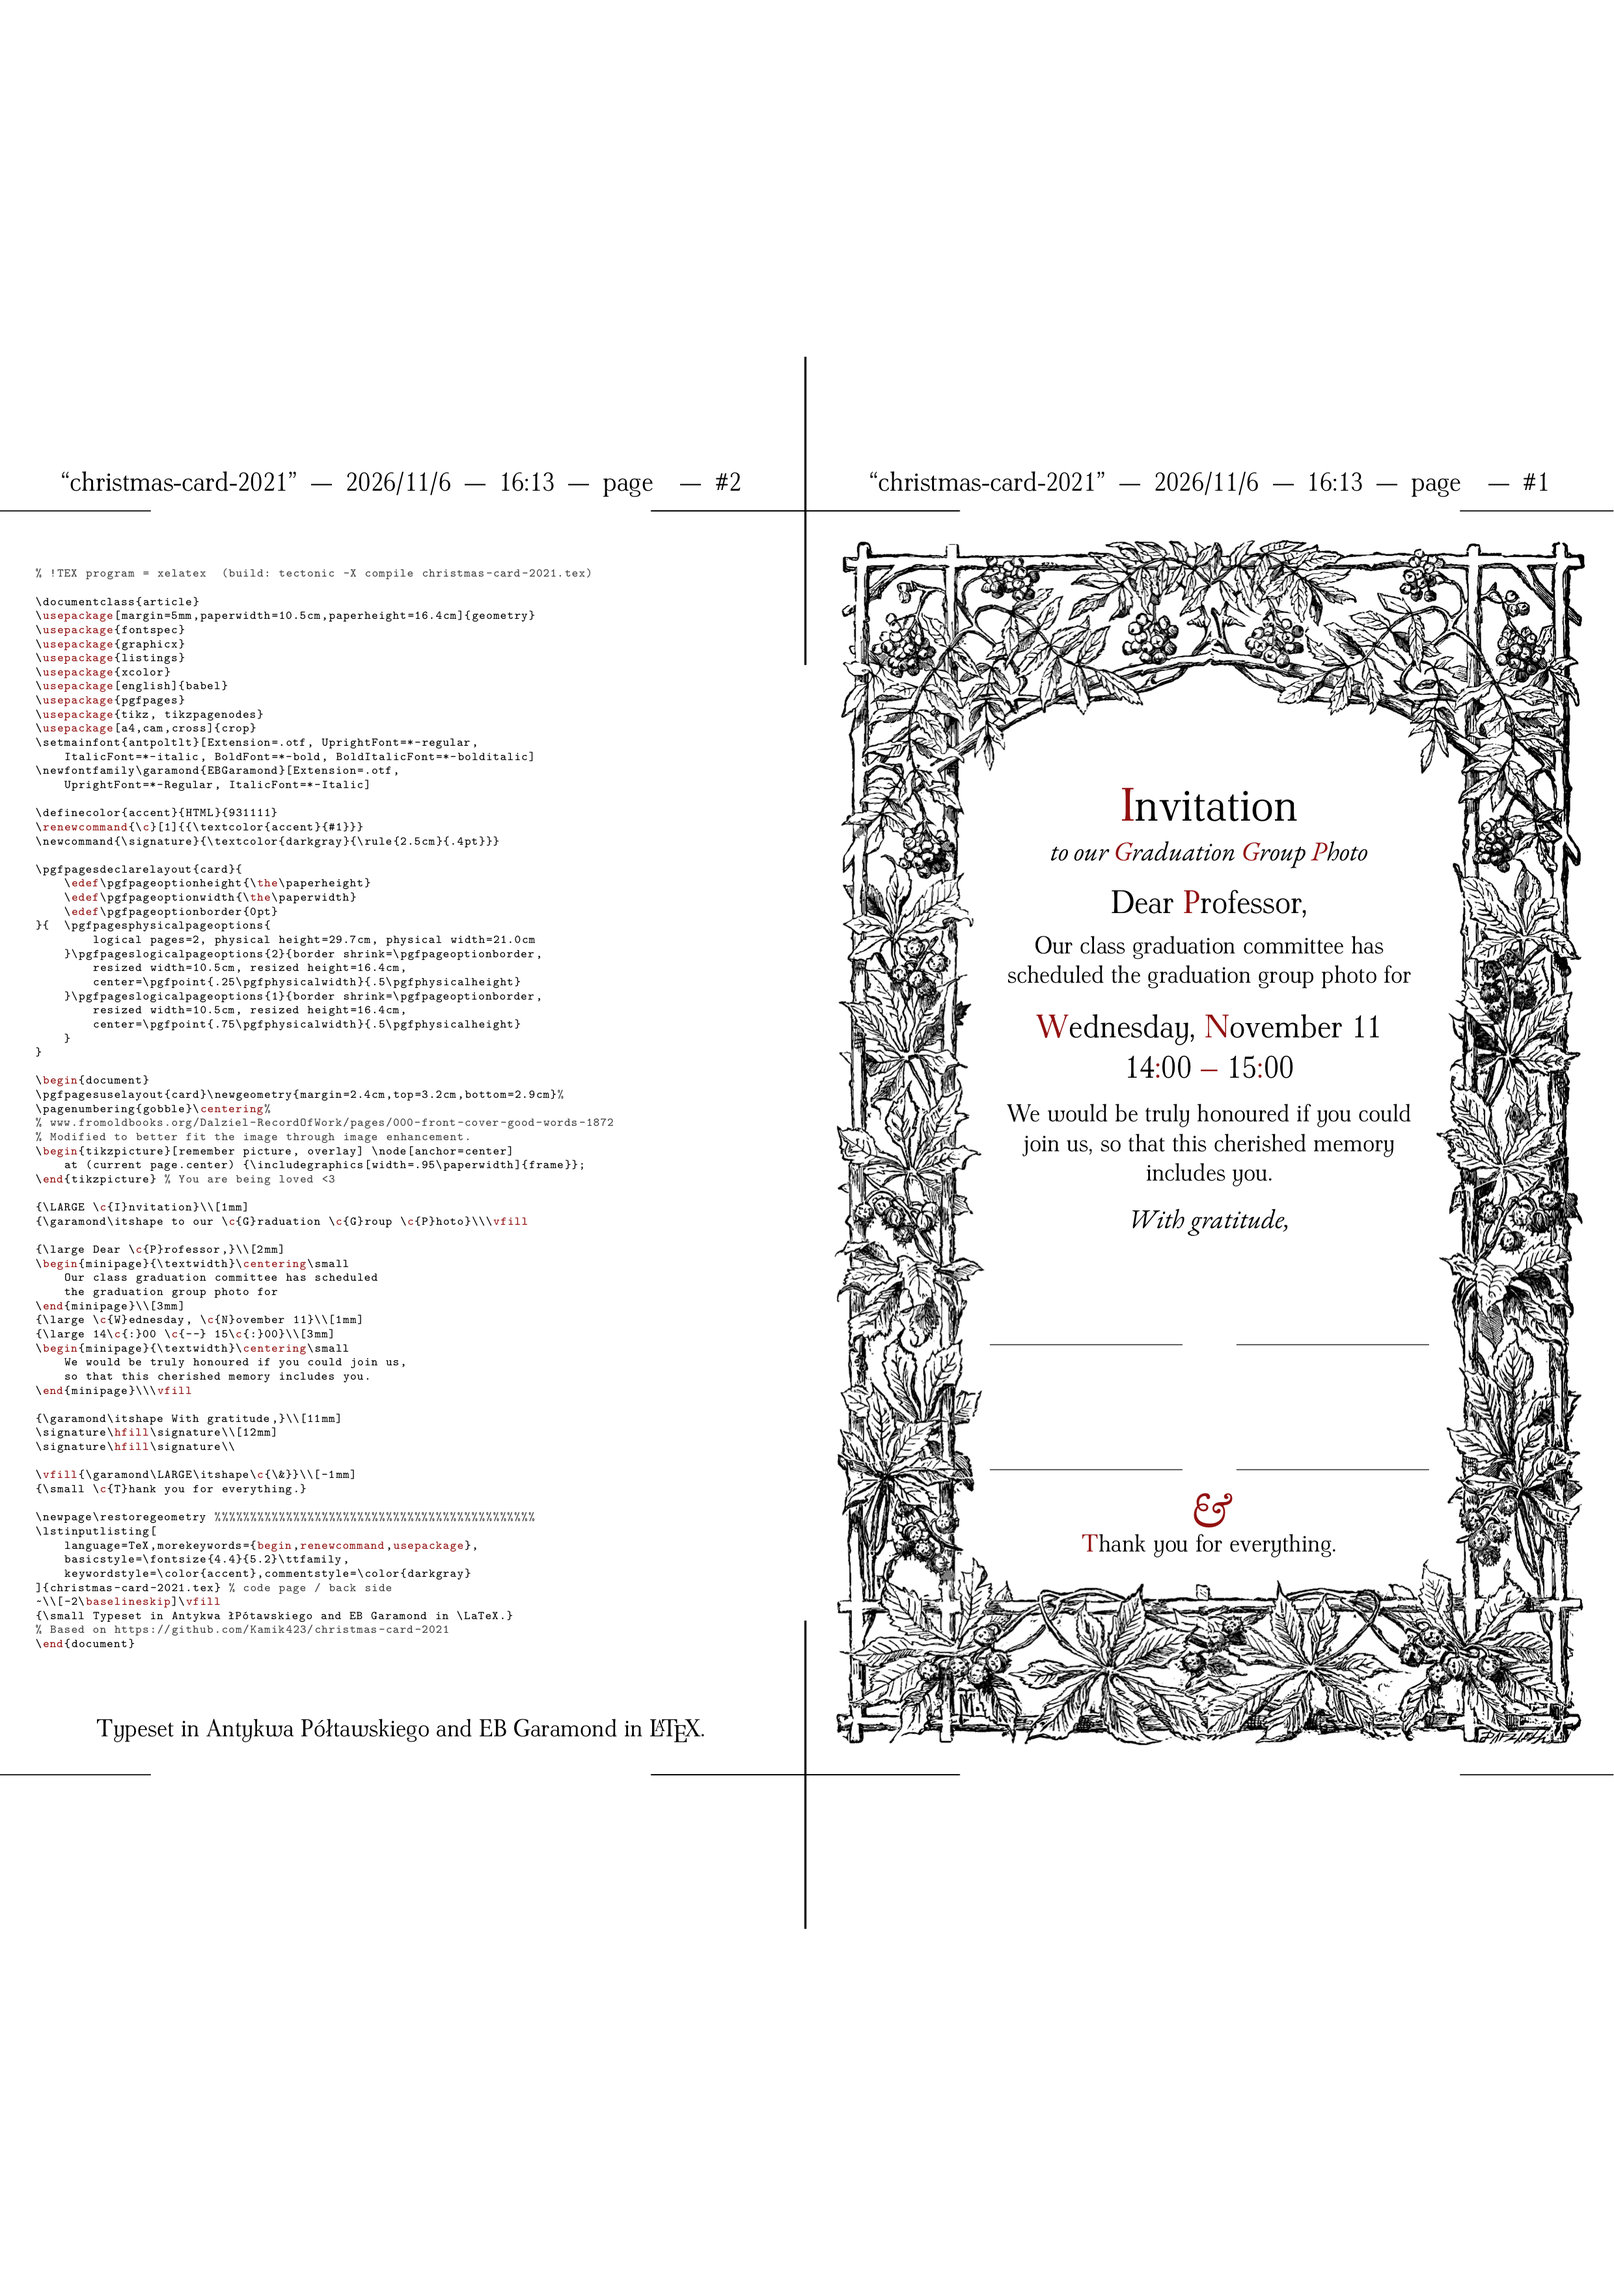
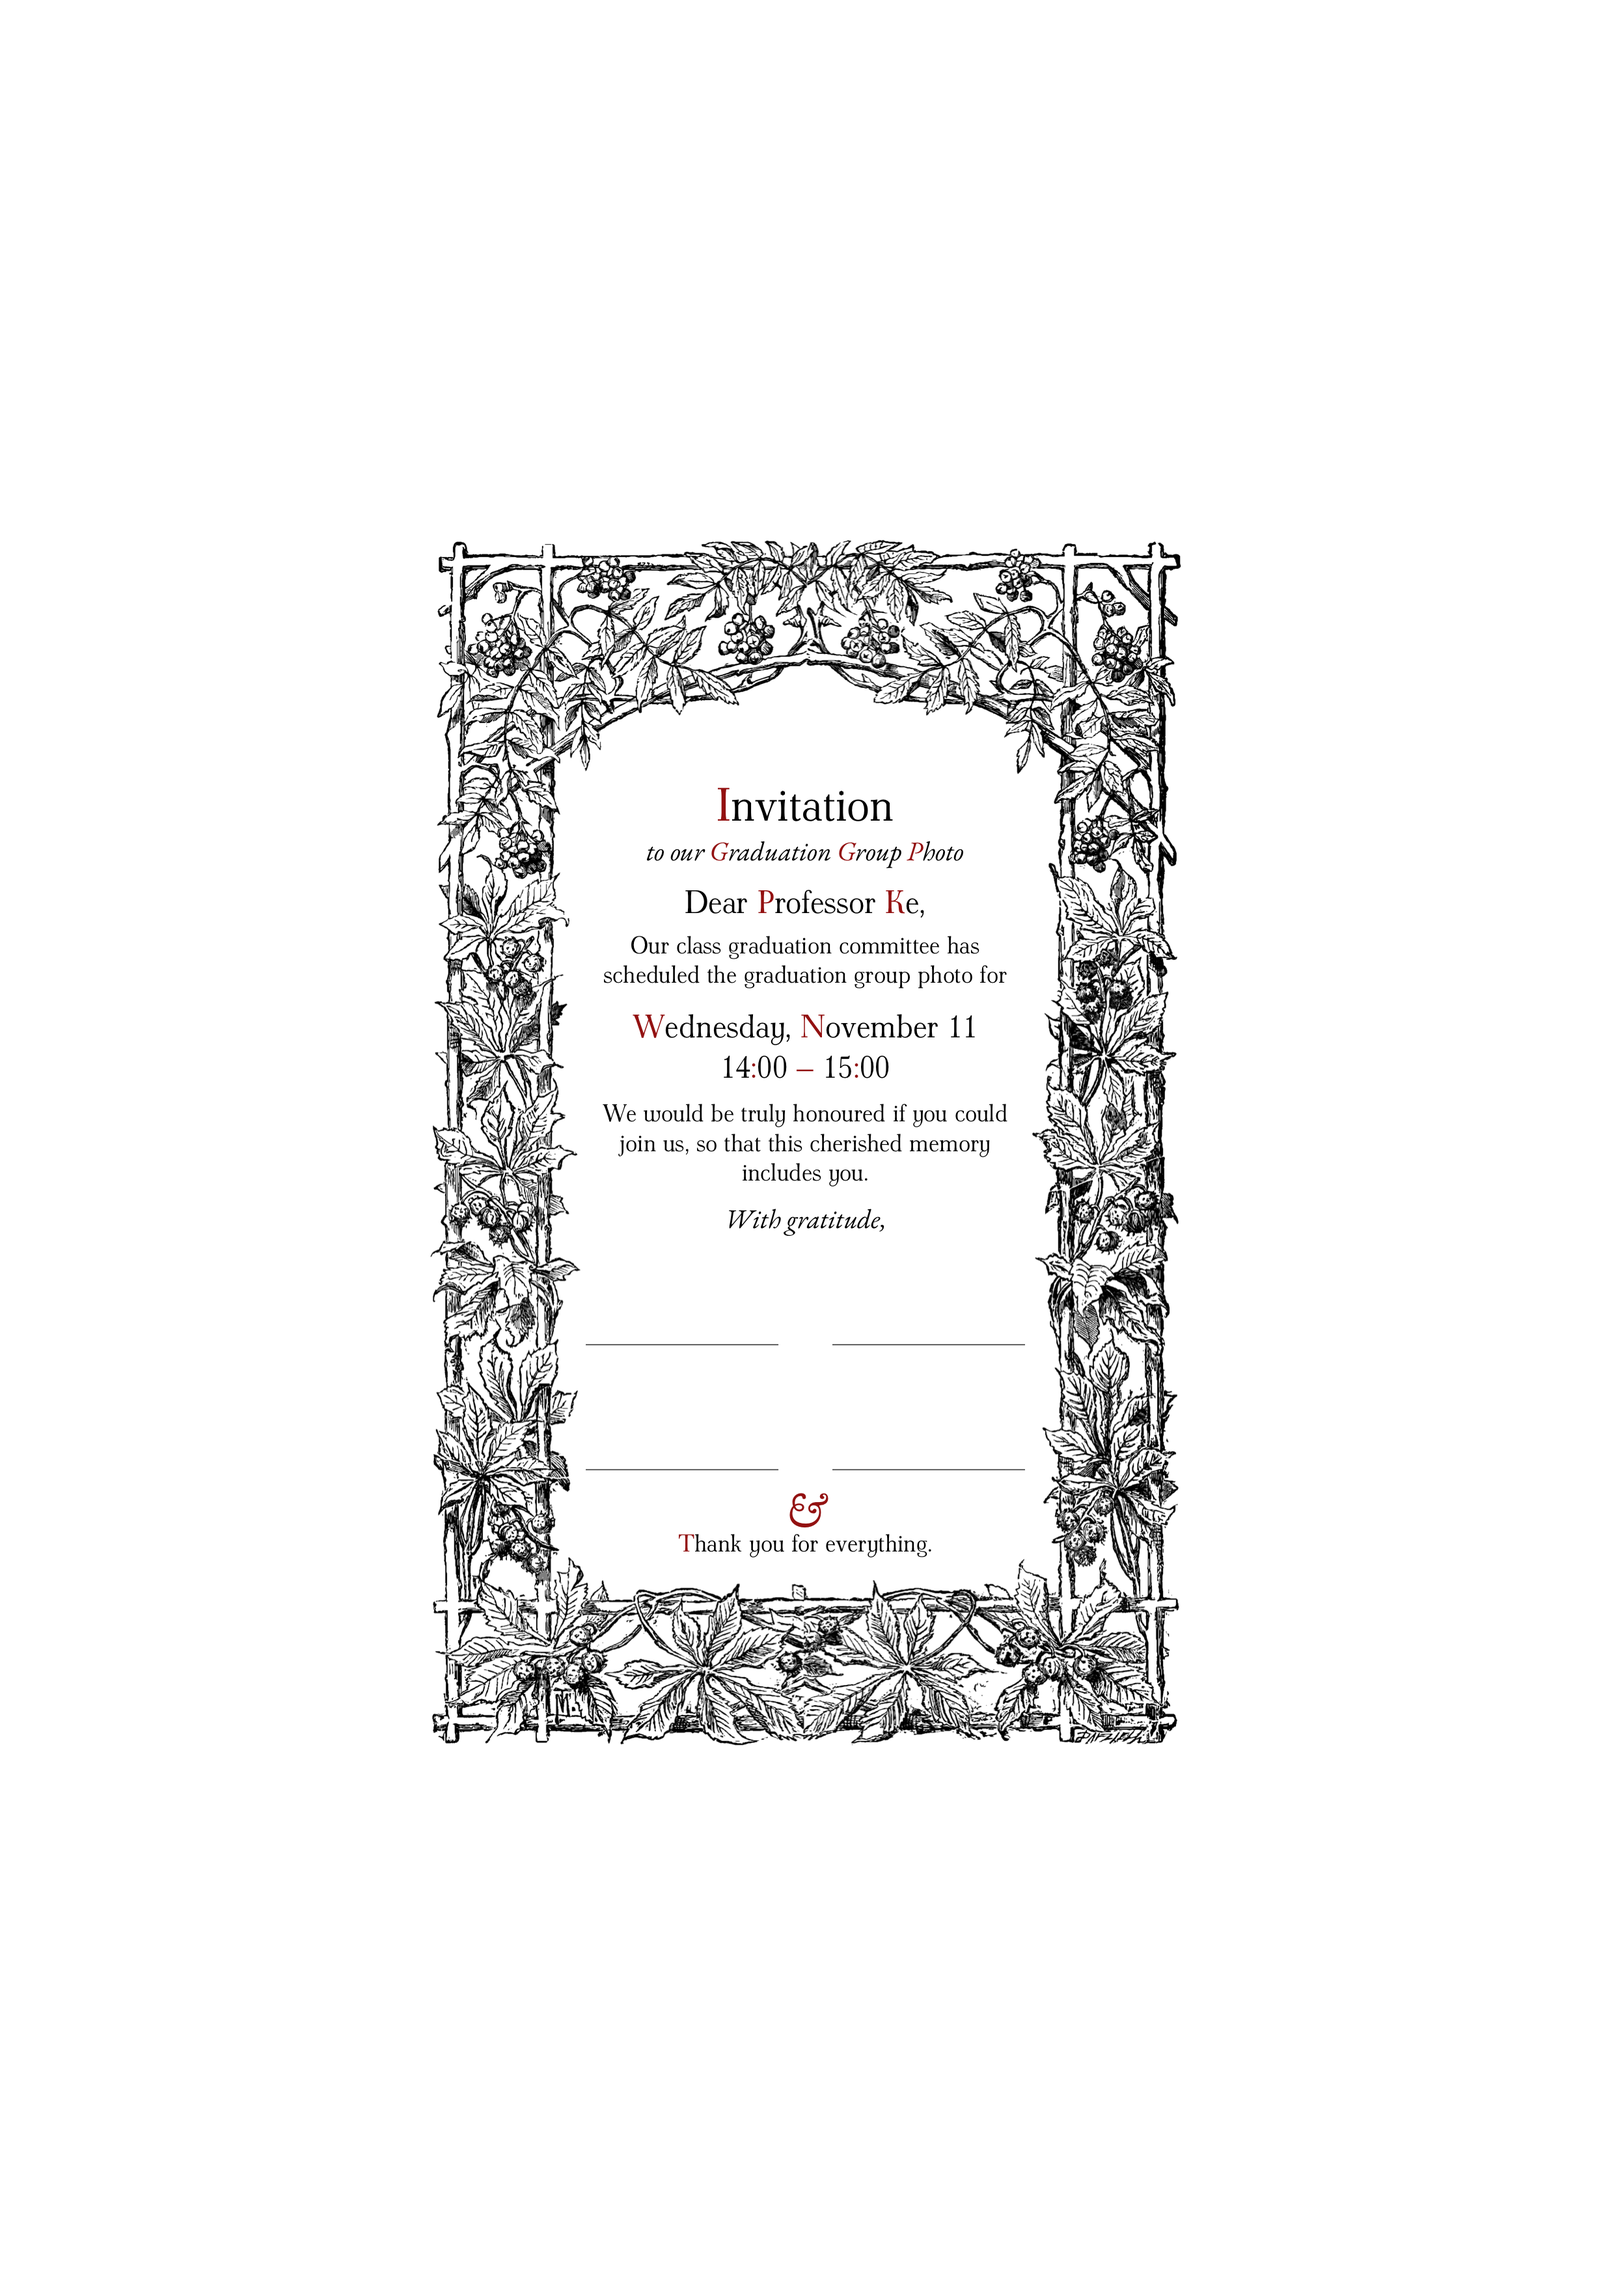
Print only the invitation card on A4, address Prof. Ke
Drop the source-code back page, crop marks and header so the PDF is a
single A4 sheet with the card centred at actual size. Address the
invitation to Professor Ke.

Changed region(s): [[0.031, 0.2175, 0.9935, 0.7768]]

diff --git a/christmas-card-2021.tex b/christmas-card-2021.tex
@@ -4,12 +4,10 @@
 \usepackage[margin=5mm,paperwidth=10.5cm,paperheight=16.4cm]{geometry}
 \usepackage{fontspec}
 \usepackage{graphicx}
-\usepackage{listings}
 \usepackage{xcolor}
 \usepackage[english]{babel}
 \usepackage{pgfpages}
 \usepackage{tikz, tikzpagenodes}
-\usepackage[a4,cam,cross]{crop}
 \setmainfont{antpoltlt}[Extension=.otf, UprightFont=*-regular,
     ItalicFont=*-italic, BoldFont=*-bold, BoldItalicFont=*-bolditalic]
 \newfontfamily\garamond{EBGaramond}[Extension=.otf,
@@ -19,18 +17,13 @@
 \renewcommand{\c}[1]{{\textcolor{accent}{#1}}}
 \newcommand{\signature}{\textcolor{darkgray}{\rule{2.5cm}{.4pt}}}
 
-\pgfpagesdeclarelayout{card}{
-    \edef\pgfpageoptionheight{\the\paperheight}
-    \edef\pgfpageoptionwidth{\the\paperwidth}
-    \edef\pgfpageoptionborder{0pt}
-}{  \pgfpagesphysicalpageoptions{
-        logical pages=2, physical height=29.7cm, physical width=21.0cm
-    }\pgfpageslogicalpageoptions{2}{border shrink=\pgfpageoptionborder,
+% Print the card at actual size, centred on an A4 sheet
+\pgfpagesdeclarelayout{card}{}{
+    \pgfpagesphysicalpageoptions{
+        logical pages=1, physical height=29.7cm, physical width=21.0cm
+    }\pgfpageslogicalpageoptions{1}{
         resized width=10.5cm, resized height=16.4cm,
-        center=\pgfpoint{.25\pgfphysicalwidth}{.5\pgfphysicalheight}
-    }\pgfpageslogicalpageoptions{1}{border shrink=\pgfpageoptionborder,
-        resized width=10.5cm, resized height=16.4cm,
-        center=\pgfpoint{.75\pgfphysicalwidth}{.5\pgfphysicalheight}
+        center=\pgfpoint{.5\pgfphysicalwidth}{.5\pgfphysicalheight}
     }
 }
 
@@ -46,7 +39,7 @@
 {\LARGE \c{I}nvitation}\\[1mm]
 {\garamond\itshape to our \c{G}raduation \c{G}roup \c{P}hoto}\\\vfill
 
-{\large Dear \c{P}rofessor,}\\[2mm]
+{\large Dear \c{P}rofessor \c{K}e,}\\[2mm]
 \begin{minipage}{\textwidth}\centering\small
     Our class graduation committee has scheduled
     the graduation group photo for
@@ -65,13 +58,5 @@
 \vfill{\garamond\LARGE\itshape\c{\&}}\\[-1mm]
 {\small \c{T}hank you for everything.}
 
-\newpage\restoregeometry %%%%%%%%%%%%%%%%%%%%%%%%%%%%%%%%%%%%%%%%%%%%%
-\lstinputlisting[
-    language=TeX,morekeywords={begin,renewcommand,usepackage},
-    basicstyle=\fontsize{4.4}{5.2}\ttfamily,
-    keywordstyle=\color{accent},commentstyle=\color{darkgray}
-]{christmas-card-2021.tex} % code page / back side
-~\\[-2\baselineskip]\vfill
-{\small Typeset in Antykwa Półtawskiego and EB Garamond in \LaTeX.}
 % Based on https://github.com/Kamik423/christmas-card-2021
 \end{document}
